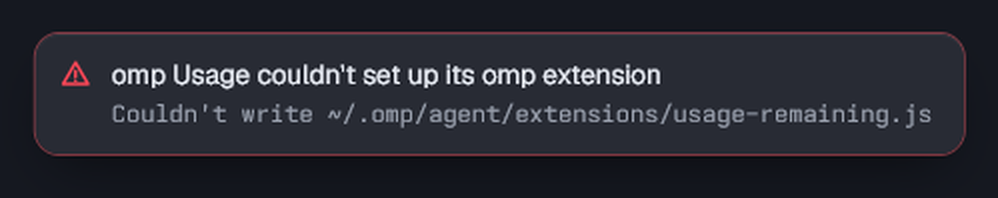
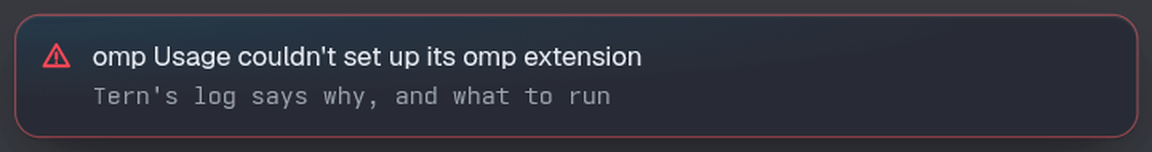
0.7.0: Have omp load the extension as one of its plugins
A copy installed from Tern used to put a loader file in
`~/.omp/agent/extensions`. omp couldn't turn it off, deleting it only
held until Tern next loaded the plugin, and `tern plugin remove` left
it behind.

Now the copy links its extension into omp's own plugins, as
`omp-usage`:

- `/extensions` in omp, or `omp plugin disable omp-usage`, turns it
  off; `omp plugin enable omp-usage` turns it back on. omp Usage leaves
  the link as you set it, and doesn't link it again after
  `omp plugin uninstall omp-usage`.
- omp Usage: Set up omp extension in the palette links it again, or
  says how it's set up.
- The old loader file goes the first time this version loads, and a
  toast says omp Usage updated its omp extension.
- If omp isn't on the PATH Tern started with, a toast says the
  extension couldn't be set up, and Tern's log has the command to run.

From a clone, `omp plugin link ./omp` does the same.

Restart omp sessions after updating.

diff --git a/README.md b/README.md
@@ -46,9 +46,9 @@ Hover it for each window's meter, reset time and saved resets:
 
 | Part | What it does |
 | --- | --- |
-| `omp/extensions/usage-remaining.js` | omp extension: fetches native and configured external quotas, sets the line as an extension status, and caches every model's and provider's line and details. |
+| `omp/extensions/usage-remaining.js` | omp extension: fetches native and configured external quotas, sets the line as an extension status, and caches every model's and provider's line and details. `omp/package.json` names it, so `omp plugin link` can load the `omp/` folder as omp's plugin `omp-usage`. |
 | `omp/extensions/usage-sources/` | CLIProxyAPI and Keeper clients, source configuration, observation freshness, and semantic quantity/estimate formatting. |
-| `plugin.toml`, `window.luau`, `details.luau`, `update.luau`, `bar.css` | Tern plugin: draws the line above the context bar, hides the statuses it redraws from omp's bar (keeping the session cost), and adds native quota details, the settings panel and updates. Installed from Tern, it also puts a loader in `~/.omp/agent/extensions` that runs the omp extension from the plugin's folder. |
+| `plugin.toml`, `window.luau`, `details.luau`, `update.luau`, `extension.luau`, `bar.css` | Tern plugin: draws the line above the context bar, hides the statuses it redraws from omp's bar (keeping the session cost), and adds native quota details, the settings panel and updates. Installed from Tern, it also links its `omp/` folder into omp's plugins, so omp runs the extension from there. |
 
 The original native display was tested with Tern 0.9.14 and omp 18.18.6 on Windows, and installing from Tern
 with Tern 0.9.18 and omp 18.19.0 on Windows. Source checks use local
@@ -67,14 +67,19 @@ You need Tern with plugins on (Preferences › Plugins), and either omp signed i
    tern plugin install github.com/jmazzola/tern-plugin-omp-usage
    ```
 
-   Within seconds it writes `~/.omp/agent/extensions/usage-remaining.js`, which omp loads without config and which
-   runs the omp extension from the plugin's folder, so updates reach omp too. Then it says so:
+   Within seconds it runs `omp plugin link` on its `omp/` folder, so omp loads the extension as its plugin
+   `omp-usage`, from the plugin's folder, and updates reach omp too. Then it says so:
 
    <img src="docs/images/toast-installed.png" alt="The toast omp Usage is installed, Restart omp sessions to see the usage line" width="540">
 
-   If it can't write that file, it says that instead, and Tern's log has why:
+   If it can't (omp isn't on Tern's `PATH`, say), it says that instead, and Tern's log has why and the command to
+   run:
 
-   <img src="docs/images/toast-extension-failed.png" alt="The error toast omp Usage couldn't set up its omp extension, Couldn't write ~/.omp/agent/extensions/usage-remaining.js" width="499">
+   <img src="docs/images/toast-extension-failed.png" alt="The error toast omp Usage couldn't set up its omp extension, Tern's log says why, and what to run" width="576">
+
+   omp then lists it with its other plugins: `/extensions` or `omp plugin disable omp-usage` turns it off,
+   `omp plugin enable omp-usage` back on. omp Usage leaves the link as you set it; after `omp plugin uninstall
+   omp-usage`, run **omp Usage: Set up omp extension** in Tern's palette to link it again.
 
 2. **Show extension statuses** in omp's bar, where the plugin reads the line. Either:
 
@@ -100,14 +105,14 @@ cd tern-plugin-omp-usage
 tern plugin link .
 ```
 
-Then load the extension from the clone in `~/.omp/agent/config.yml`, and do steps 2 and 3 above:
+Then have omp load the extension from the clone, and do steps 2 and 3 above:
 
-```yaml
-extensions:
-  - C:/Users/you/tern-plugin-omp-usage/omp/extensions/usage-remaining.js
+```sh
+omp plugin link ./omp
 ```
 
-An installed copy doesn't write its extension while `config.yml` already loads one, so omp never runs it twice.
+Loading it from `~/.omp/agent/config.yml` (`extensions:` naming `omp/extensions/usage-remaining.js`) works too; an
+installed copy then doesn't link its own, so omp never runs it twice.
 
 > [!WARNING]
 > **The `omp-usage` folder is deprecated.** Since 0.5.0 the plugin is the repo itself. Clones linked to
@@ -424,8 +429,9 @@ Open settings panels step aside while the update lands, so nothing flashes half-
 
 <img src="docs/images/update-landing.png" alt="Updating omp Usage to 0.3.0, Downloading the update and reloading the plugin, then the toast omp Usage updated to 0.3.0" width="778">
 
-When `~/.omp/agent/extensions/usage-remaining.js` has to change (the first time 0.5.2 or later loads after an
-update, or after the plugin's folder moved), it says so:
+When omp's link to the extension has to change (the first time 0.7.0 or later loads after an update, which also
+removes the `~/.omp/agent/extensions/usage-remaining.js` loader 0.5.2 to 0.6.x wrote, or after the plugin's folder
+moved), it says so:
 
 <img src="docs/images/toast-extension-updated.png" alt="The toast omp Usage updated its omp extension, Restart omp sessions to use it" width="549">
 
@@ -444,14 +450,15 @@ update, or after the plugin's folder moved), it says so:
 | --- | --- | --- |
 | Turn the plugin off | Preferences › Plugins | `tern plugin unlink omp-usage`, or Preferences › Plugins |
 | Turn it back on | Preferences › Plugins | `tern plugin link .` from the repo folder |
-| Remove it | `tern plugin remove omp-usage` and restart omp; the file it left in `~/.omp/agent/extensions` then does nothing, so delete it when you like | `tern plugin unlink omp-usage`, then delete the extension's line from `~/.omp/agent/config.yml` and restart omp |
+| Turn the extension off only | `omp plugin disable omp-usage` (or `/extensions` in omp), then restart omp | The same, if you linked it; else delete its line from `~/.omp/agent/config.yml` |
+| Remove it | `omp plugin uninstall omp-usage`, then `tern plugin remove omp-usage`, and restart omp | `omp plugin uninstall omp-usage` (or delete the extension's line from `~/.omp/agent/config.yml`), then `tern plugin unlink omp-usage`, and restart omp |
 
 ## Troubleshooting
 
 | Symptom | Check |
 | --- | --- |
 | `tern plugin list` isn't `ready` | It prints the error; Tern's log is `%LOCALAPPDATA%\Tern\Logs\tern.log` |
-| No line | Focused pane is omp; its provider has limits; omp restarted after install; extension statuses on (step 2); `~/.omp/agent/extensions/usage-remaining.js` there (installed) or `extensions:` in `config.yml` naming it (clone) |
+| No line | Focused pane is omp; its provider has limits; omp restarted after install; extension statuses on (step 2); `omp plugin list` shows `omp-usage` enabled (else **omp Usage: Set up omp extension** in the palette), or `extensions:` in `config.yml` names it |
 | All/Selected show only the current model, or panes show different numbers | The cache is stale: restart omp sessions |
 | The card's reset dates flip between two values | An omp session from before an update is still writing the cache: restart omp sessions |
 | External source appears only in All/Selected | Add a `modelMappings` entry for the omp provider/model; an OpenAI-compatible endpoint does not identify its backing quota provider |
@@ -467,7 +474,7 @@ update, or after the plugin's folder moved), it says so:
 | Line stopped after an omp or Tern update | omp may have renamed what the plugin reads: ask omp to fix `omp-usage` |
 | No update pill | Place Tern's **Plugin segments** widget (palette › Edit widgets…), or use the panel's Updates section; checks may be Off |
 | `omp Usage can't check for updates` | Needs git on `PATH`; a clone needs a branch tracking a remote, an installed copy its `upstream` file naming the repo (`https://github.com/jmazzola/tern-plugin-omp-usage.git`); the toast gives the reason |
-| `omp Usage couldn't set up its omp extension` | `~/.omp/agent/extensions` must be a folder omp Usage can write to; Tern's log has the error |
+| `omp Usage couldn't set up its omp extension` | Tern couldn't run `omp plugin`: omp must be on the `PATH` Tern started with. Tern's log has omp's reason and the `omp plugin link …` command to run yourself |
 | `omp Usage couldn't link its repo's root` | A clone linked to the deprecated `omp-usage` folder: run `tern plugin link .` in the repo folder |
 | `omp Usage can't tell which version it is` | The repo its `upstream` file names has no commit at the installed version: a fork puts its own URL in `upstream` |
 | Edits to `window.luau` don't show | `tern plugin reload` |
